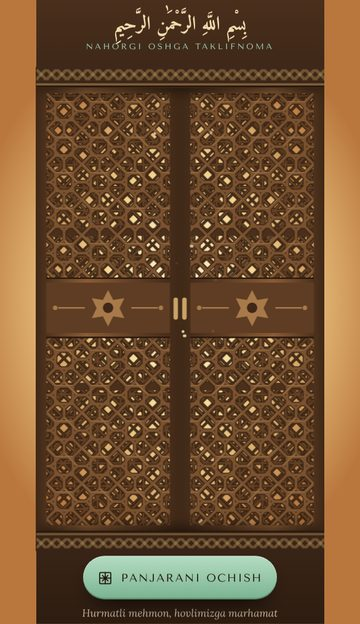
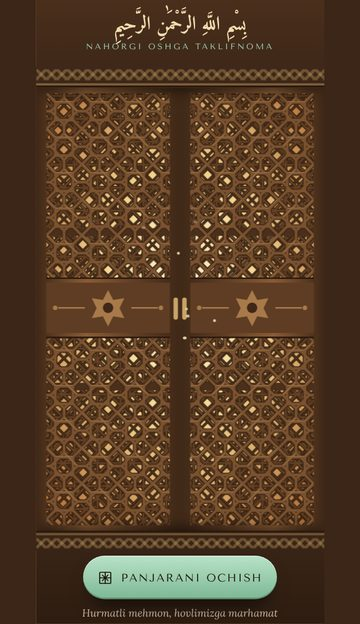
60 ta islomiy va kreativ shablon: sayqallash tuzatishlari
Claude-Session: https://claude.ai/code/session_01QjjRgS6SRFPeCnymLTHs8Z

diff --git a/catalog/v2/uzr/uz8-shox.dc.html b/catalog/v2/uzr/uz8-shox.dc.html
@@ -32,6 +32,8 @@ a{color:#4FC1B9}
 .sx-petal{position:absolute;width:9px;height:13px;border-radius:50% 50% 50% 50% / 70% 70% 30% 30%;background:#F5EFE3;opacity:0;animation:sxFall 13s linear infinite}
 @keyframes sxFall{0%{opacity:0;transform:translate(0,0) rotate(0deg)}12%{opacity:.75}100%{opacity:0;transform:translate(-40px,300px) rotate(260deg)}}
 .sx-bob{animation:sxBob 2.6s ease-in-out infinite}
+/* hero matni pastdan joylashadi: uzun ism yuqoriga o'sadi va pastki strelkaga tegmaydi; past ekranda (360x640) hero ixchamroq */
+@media (min-aspect-ratio: 390/760){.sx-hero{height:700px !important}.sx-h-vine{transform:translateY(-8px) scale(.8);transform-origin:195px 0}.sx-hero .sx-bob{top:658px !important}}
 @keyframes sxBob{0%,100%{transform:translateY(0)}50%{transform:translateY(6px)}}
 .sx-btn{transition:transform .18s cubic-bezier(.3,1.4,.5,1),filter .2s ease,box-shadow .2s ease;-webkit-tap-highlight-color:transparent}
 .sx-btn:active{transform:scale(.955);filter:brightness(1.06)}
@@ -135,7 +137,7 @@ a{color:#4FC1B9}
   </div>
 
   <!-- BOSH QISM: novda qayta o’sadi -->
-  <header style="flex: none; position: relative; height: 770px; overflow: hidden">
+  <header class="sx-hero" style="flex: none; position: relative; height: 770px; overflow: hidden">
     <div class="sx-tile" aria-hidden="true" style="position: absolute; left: 0; top: 0; width: 390px; height: 770px"></div>
     <div aria-hidden="true" style="position: absolute; left: -60px; top: 120px; width: 510px; height: 520px; background: radial-gradient(closest-side, rgba(79, 193, 185, 0.22), rgba(79, 193, 185, 0))"></div>
     <div class="sx-band" aria-hidden="true" style="position: absolute; left: 0; top: 0; width: 390px; height: 8px"></div>
@@ -143,7 +145,7 @@ a{color:#4FC1B9}
       <p class="sx-ar" dir="rtl" lang="ar" style="font-size: 25px; line-height: 50px; color: #F5EFE3">بِسْمِ اللَّهِ الرَّحْمَٰنِ الرَّحِيمِ</p>
       <span class="sx-cap" style="font-size: 10.5px">Bismillahir Rohmanir Rohiym</span>
     </div>
-    <svg width="390" height="480" viewBox="0 0 390 480" aria-hidden="true" style="position: absolute; left: 0; top: 100px; overflow: visible">
+    <svg class="sx-h-vine" width="390" height="480" viewBox="0 0 390 480" aria-hidden="true" style="position: absolute; left: 0; top: 88px; overflow: visible">
       <g class="sx-dead">
         <path d="{{ V.deadL }}" stroke="#5C6FA3" class="sx-stem"></path>
         <path d="{{ V.deadR }}" stroke="#5C6FA3" class="sx-stem"></path>
@@ -170,7 +172,7 @@ a{color:#4FC1B9}
     <span class="sx-petal" style="left: 300px; top: 120px; animation-delay: -7s"></span>
     <span class="sx-petal" style="left: 200px; top: 260px; animation-delay: -10s"></span>
 
-    <div style="position: absolute; left: 26px; right: 26px; top: 552px; display: flex; flex-direction: column; align-items: center; gap: 10px; text-align: center">
+    <div class="sx-h-txt" style="position: absolute; left: 26px; right: 26px; bottom: 42px; display: flex; flex-direction: column; align-items: center; gap: 10px; text-align: center">
       <span class="sx-cap sx-up" style="overflow-wrap: anywhere; animation-delay: 3.2s">{{ fromTo }}</span>
       <h1 class="sx-em sx-up" style="margin: 0; font-weight: 700; font-size: {{ h1Size }}; line-height: 1.08; color: #FFFFFF; overflow-wrap: anywhere; animation-delay: 3.35s">{{ d.kimga }},<br>meni kechir</h1>
       <p class="sx-up" style="margin: 0; max-width: 300px; font-size: 15px; line-height: 1.6; color: #D3DBF0; animation-delay: 3.55s">Uzilgan rishtamiz qayta ulansin, unda yangi kurtaklar ochilsin.</p>

diff --git a/catalog/v2/uzr/uz8-qandil.dc.html b/catalog/v2/uzr/uz8-qandil.dc.html
@@ -38,6 +38,8 @@ a{color:#EE9F55}
 .qd-mote{position:absolute;width:3px;height:3px;border-radius:50%;background:#FFD9A0;opacity:0;animation:qdMote 12s ease-in-out infinite}
 @keyframes qdMote{0%{opacity:0;transform:translate(0,0)}25%{opacity:.8}100%{opacity:0;transform:translate(-18px,-140px)}}
 .qd-bob{animation:qdBob 2.6s ease-in-out infinite}
+/* past ekran (masalan 360x640): hero birinchi ekranga sig'sin — chiroq va matn yuqoriroq */
+@media (min-aspect-ratio: 390/780){.qd-hero{height:720px !important}.qd-hero .qd-sway{top:-40px !important}.qd-hero .qd-proj{top:-170px !important}.qd-h-bis{top:338px !important}.qd-h-txt{top:430px !important}.qd-hero .qd-bob{top:688px !important}}
 @keyframes qdBob{0%,100%{transform:translateY(0)}50%{transform:translateY(6px)}}
 .qd-ember{animation:qdEmber 2.4s ease-in-out infinite}
 @keyframes qdEmber{0%,100%{opacity:.35}50%{opacity:.9}}
@@ -153,7 +155,7 @@ a{color:#EE9F55}
   </div>
 
   <!-- BOSH QISM: nur xonaga yoyiladi -->
-  <header style="flex: none; position: relative; height: 800px; overflow: hidden">
+  <header class="qd-hero" style="flex: none; position: relative; height: 800px; overflow: hidden">
     <div class="qd-wall" aria-hidden="true" style="position: absolute; left: 0; top: 0; width: 390px; height: 800px"></div>
     <div class="qd-warm qd-warmbg" aria-hidden="true" style="position: absolute; left: 0; top: 0; width: 390px; height: 800px"></div>
     <svg class="qd-mihrab" width="390" height="844" viewBox="0 0 390 844" aria-hidden="true" style="position: absolute; left: 0; top: 0">
@@ -185,11 +187,11 @@ a{color:#EE9F55}
     <span class="qd-mote" style="left: 320px; top: 480px; animation-delay: -4s"></span>
     <span class="qd-mote" style="left: 250px; top: 690px; animation-delay: -8s"></span>
 
-    <div style="position: absolute; left: 24px; right: 24px; top: 392px; display: flex; flex-direction: column; align-items: center; gap: 4px; text-align: center">
+    <div class="qd-h-bis" style="position: absolute; left: 24px; right: 24px; top: 392px; display: flex; flex-direction: column; align-items: center; gap: 4px; text-align: center">
       <p class="qd-ruq qd-up" dir="rtl" lang="ar" style="font-size: 30px; line-height: 54px; color: #FBEBD3; text-shadow: 0 0 18px rgba(255, 190, 110, 0.55); animation-delay: 2.5s">بِسْمِ اللَّهِ الرَّحْمَٰنِ الرَّحِيمِ</p>
       <span class="qd-cap qd-up" style="font-size: 10.5px; color: #E3B98E; animation-delay: 2.65s">Bismillahir Rohmanir Rohiym</span>
     </div>
-    <div style="position: absolute; left: 26px; right: 26px; top: 492px; display: flex; flex-direction: column; align-items: center; gap: 10px; text-align: center">
+    <div class="qd-h-txt" style="position: absolute; left: 26px; right: 26px; top: 492px; display: flex; flex-direction: column; align-items: center; gap: 10px; text-align: center">
       <span class="qd-cap qd-up" style="overflow-wrap: anywhere; animation-delay: 2.85s">{{ fromTo }}</span>
       <h1 class="qd-ph qd-up" style="margin: 0; font-weight: 700; font-size: {{ h1Size }}; line-height: 1.05; color: #FFF4E4; overflow-wrap: anywhere; text-shadow: 0 0 26px rgba(238, 159, 85, 0.35); animation-delay: 3s">{{ d.kimga }},<br>meni kechir</h1>
       <p class="qd-up" style="margin: 0; max-width: 300px; font-size: 15px; line-height: 1.6; color: #E6D5CC; animation-delay: 3.25s">Oramizdagi nur mening xatoyim bilan xiralashdi. Uni qayta yoqmoqchiman — iltimos, oxirigacha o’qi.</p>

diff --git a/catalog/v2/toy/toy11-muqarnas.dc.html b/catalog/v2/toy/toy11-muqarnas.dc.html
@@ -63,6 +63,11 @@ body{margin:0;background:#1A120F}
 .mq-iui{transition:opacity .45s ease,transform .6s ease}
 .mq-i--open .mq-iui{opacity:0;transform:translateY(10px)}
 .mq-iname{opacity:0}
+/* qisqa ekranda kirish kichraytiriladi: uning ism nusxasi to'liq o'lchamdagi hero bilan ustma-ust tushmasin — oxirida iliq nur bilan yopiladi */
+.mq-flash{position:absolute;inset:0;opacity:0;pointer-events:none;background:radial-gradient(ellipse 90% 70% at 50% 34%,#FFF4DC,#F3D08C 48%,#9A6A2E)}
+.mq-i--open[style*="zoom"]{animation-delay:5.25s}
+.mq-i--open[style*="zoom"] .mq-flash{animation:mq-fade .5s ease 4.8s both}
+@keyframes mq-fade{from{opacity:0}to{opacity:1}}
 .mq-i--open .mq-iname{animation:mq-up .9s cubic-bezier(.2,.8,.2,1) both}
 @keyframes mq-up{from{opacity:0;transform:translateY(22px)}to{opacity:1;transform:none}}
 .mq-cta{position:relative;height:56px;padding:0 30px;border-radius:28px;border:1px solid rgba(255,226,170,.55);display:inline-flex;align-items:center;gap:12px;font-family:inherit;font-size:15px;font-weight:600;letter-spacing:.04em;color:#2A1A0E;cursor:pointer;background:linear-gradient(180deg,#F6D58F,#D9A04E 55%,#B07A33);box-shadow:0 18px 30px -14px rgba(0,0,0,.9),inset 0 1px 0 rgba(255,250,230,.8);transition:transform .18s cubic-bezier(.3,1.6,.5,1);animation:mq-halo 2.8s ease-out infinite}
@@ -243,6 +248,7 @@ body{margin:0;background:#1A120F}
       </button>
       <sc-if value="{{ has.music }}"><p style="margin: 12px 0 0; display: flex; align-items: center; gap: 8px; font-size: 12px; line-height: 16px; color: #BFAE98"><svg class="mq-icon" width="15" height="15" viewBox="0 0 24 24" aria-hidden="true"><path d="M9 18V5.5l11-2.2v12.5"></path><circle cx="6.2" cy="18" r="2.8"></circle><circle cx="17.2" cy="15.8" r="2.8"></circle></svg>Musiqa bilan ochiladi</p></sc-if>
     </div>
+    <div class="mq-flash" aria-hidden="true"></div>
   </div>
 
   <header style="position: relative; height: 844px; flex: none; overflow: hidden; background: #1A120F">

diff --git a/catalog/v2/toy/toy11-tazhib.dc.html b/catalog/v2/toy/toy11-tazhib.dc.html
@@ -39,6 +39,10 @@ body{margin:0;background:#EFE3C8}
 .tz-i .tz-bl{transform:scale(0);opacity:0}
 .tz-i .tz-shim{opacity:0;animation:none}
 .tz-i--open{pointer-events:none;animation:tz-out .6s ease 4.95s forwards}
+/* qisqa ekranda kirish kichraytiriladi: uning nusxasi to'liq o'lchamdagi hero bilan ustma-ust tushmasin — oxirida iliq nur bilan yopiladi */
+.tz-flash{position:absolute;inset:0;opacity:0;pointer-events:none;background:radial-gradient(ellipse 85% 70% at 50% 45%,#FFFBF0,#F8EDD4 55%,#EFE3C8)}
+.tz-i--open[style*="zoom"]{animation-delay:5.45s}
+.tz-i--open[style*="zoom"] .tz-flash{animation:tz-fade .5s ease 5s both}
 @keyframes tz-out{to{opacity:0;visibility:hidden}}
 .tz-i--open .tz-dr{animation:tz-draw 1.25s cubic-bezier(.55,.1,.3,1) both}
 @keyframes tz-draw{from{stroke-dashoffset:1}to{stroke-dashoffset:0}}
@@ -257,6 +261,7 @@ body{margin:0;background:#EFE3C8}
       </button>
       <sc-if value="{{ has.music }}"><p style="margin: 12px 0 0; display: flex; align-items: center; gap: 8px; font-size: 13px; line-height: 16px; color: #6B5A44"><svg class="tz-icon" width="15" height="15" viewBox="0 0 24 24" aria-hidden="true"><path d="M9 18V5.5l11-2.2v12.5"></path><circle cx="6.2" cy="18" r="2.8"></circle><circle cx="17.2" cy="15.8" r="2.8"></circle></svg>Musiqa bilan ochiladi</p></sc-if>
     </div>
+    <div class="tz-flash" aria-hidden="true"></div>
   </div>
 
   <header class="tz-hero" style="position: relative; height: 844px; flex: none; overflow: hidden">
